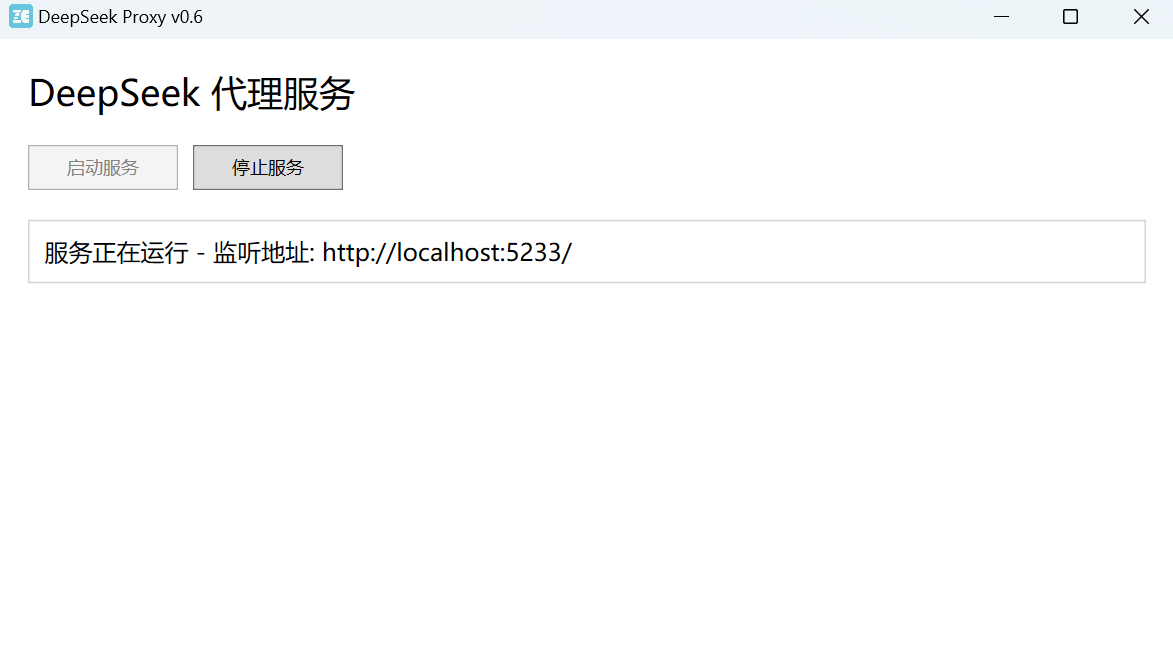
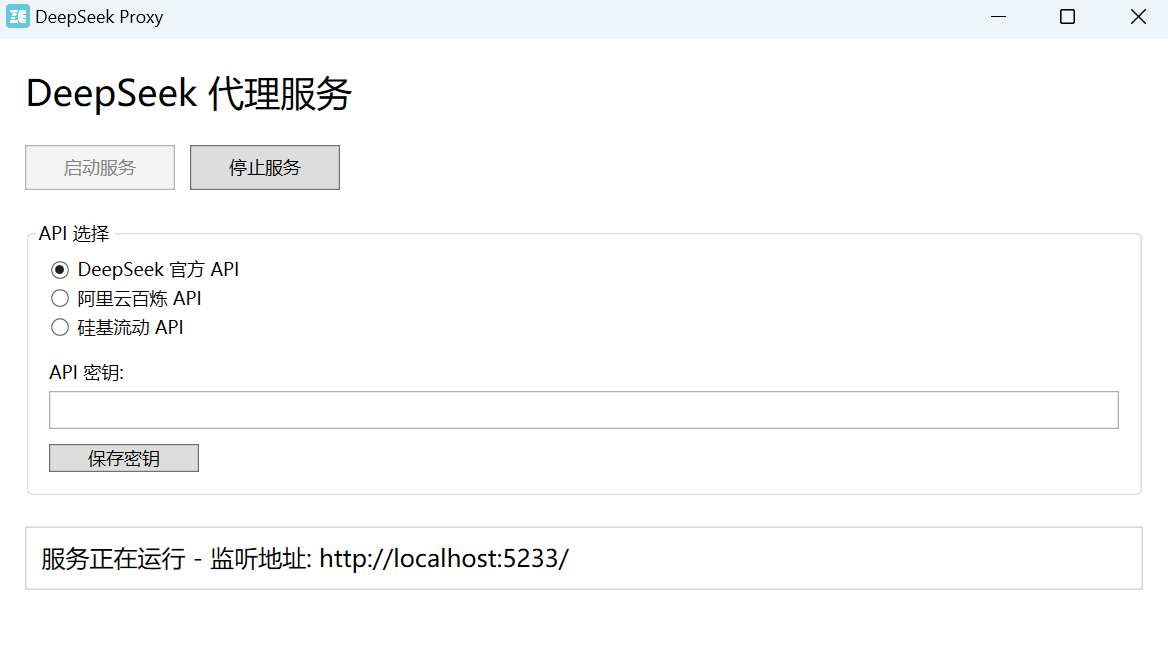
m

diff --git a/docs/home/DeepSeek.md b/docs/home/DeepSeek.md
@@ -2,36 +2,28 @@
 
 >✨在1.61以上的版本中，插件支持调用DeepSeek的API进行答案解析，以下是使用方法
 
+## 1⃣获取API Key
+[点击查看教程](./GetAPIKey.md)
 
-## 使用方法
+## 2⃣下载并运行DeepSeekProxy
 
-### 1⃣打开[DeepSeek](https://www.deepseek.com/)的官网，注册并登录，获取API Key。
->目前DeepSeek已经不再赠送10元的免费额度，需要请自行充值。DeepSeek的API定价目前是各家AI产品中最低的。
->在我对脚本的开发测试过程中，120次调用(即题目查询)仅仅消耗了0.15元
-
-![images/DeepSeek_s1.png](/images/DeepSeek_s1.png)
-
-![images/DeepSeek_s2.png](/images/DeepSeek_s2.png)
-
-![images/DeepSeek_s3.png](/images/DeepSeek_s3.png)
-
-### 2⃣在插件中填入API Key
-![images/ApiKeySetting.png](/images/ApiKeySetting.png)
-
-### 3⃣下载并运行DeepSeekProxy
->DeepSeek的API是无法跨域的，也就是不能在一个网站中进行请求，因此需要代理服务器，我们提供了一个简单的代理服务器，可以在本地运行。
-
-下载DeepSeekProxy：
-
-· [蓝奏云](https://wwyl.lanzouv.com/iSFrB2p59ohi)
-
-· [Gitee](https://gitee.com/m0zey/DeepSeekProxy/releases/tag/0.6)
-
-运行DeepSeekProxy：
+- [蓝奏云](https://wwyl.lanzouv.com/iSFrB2p59ohi)    
+- [Gitee](https://gitee.com/m0zey/DeepSeekProxy/releases/tag/0.6)
 
 ![images/DeepSeekProxy.png](/images/DeepSeekProxy.png)
+填入相应平台的API Key点击保存即可
 
-🥳恭喜你完成所有操作，在显示答案后，点击DeepSeek的图标就可以调用DeepSeek了，使用时需要保持程序后台运行
+## 3⃣为什么需要DeepSeekProxy？
+
+因为目前所有的API都是不能跨域的，也就是说不能在一个网站中进行请求,所以需要搭建`代理服务器`。
+![浏览器拦截](/images/cross_s1.png)
+![浏览器拦截](/images/cross_s2.png)
+
+由于插件是公益性质的，难以承担高性能服务器产生费用，如果使用我们目前的服务器资源搭建代理服务器，会造成极大的延迟与不稳定
+
+同时，如果使用我们的服务器，在代理请求过程中会传递API密钥，一旦我们的服务器遭受攻击，难以保证用户数据的安全
+
+因此，我们选择开发`DeepSeekProxy`，它是一个开源的代理服务器软件，源码发布在了[Gitee](https://gitee.com/m0zey/DeepSeekProxy)，它运行在你的电脑上，代理请求DeepSeek的API，转发AI生成的回答给在浙学网课助手。在运行过程中不会向我们在内的任何第三方网站传递密钥数据，保证了密钥安全
 
 
 

diff --git a/docs/home/GetAPIKey.md b/docs/home/GetAPIKey.md
@@ -1,0 +1,35 @@
+# 获取 API Key
+
+以下是不同平台获取 API Key 的方法：
+
+| 平台 | 获取方式 | 免费额度 | 链接 |
+| --- | --- | --- | --- |
+| DeepSeek官方| [点击查看](#deepseek官方)| 新用户没有免费Token | [DeepSeek API](https://platform.deepseek.com/) |
+| 阿里百炼(推荐) | [点击查看](#阿里百炼) | 新用户有8元左右赠送Token，学生通过 [云工开物计划](https://university.aliyun.com/) 赠送300余额 | [阿里百炼](https://bailian.console.aliyun.com/) |
+| 硅基流动 | [点击查看](#硅基流动) | 新用户14元免费额度 | [硅基流动](https://cloud.siliconflow.cn/) |
+
+## DeepSeek官方
+> [官网链接](https://platform.deepseek.com/)
+
+![images/DeepSeek_s1.png](/images/DeepSeek_s1.png)
+![images/DeepSeek_s2.png](/images/DeepSeek_s2.png)
+![images/DeepSeek_s3.png](/images/DeepSeek_s3.png)
+
+
+## 阿里百炼
+> [官网链接](https://university.aliyun.com/)
+
+> [云工开物计划](https://university.aliyun.com/) 学生赠送300余额
+
+![images/aliyun_s1.png](/images/aliyun_s1.png)
+![images/aliyun_s2.png](/images/aliyun_s2.png)
+![images/aliyun_s3.png](/images/aliyun_s3.png)
+
+## 硅基流动
+
+> [官网链接](https://cloud.siliconflow.cn/)
+
+![images/siliconflow_s1.png](/images/siliconflow_s1.png)
+![images/siliconflow_s2.png](/images/siliconflow_s2.png)
+![images/siliconflow_s3.png](/images/siliconflow_s3.png)
+请注意，API Key 是敏感信息，请妥善保管，不要泄露给他人。
